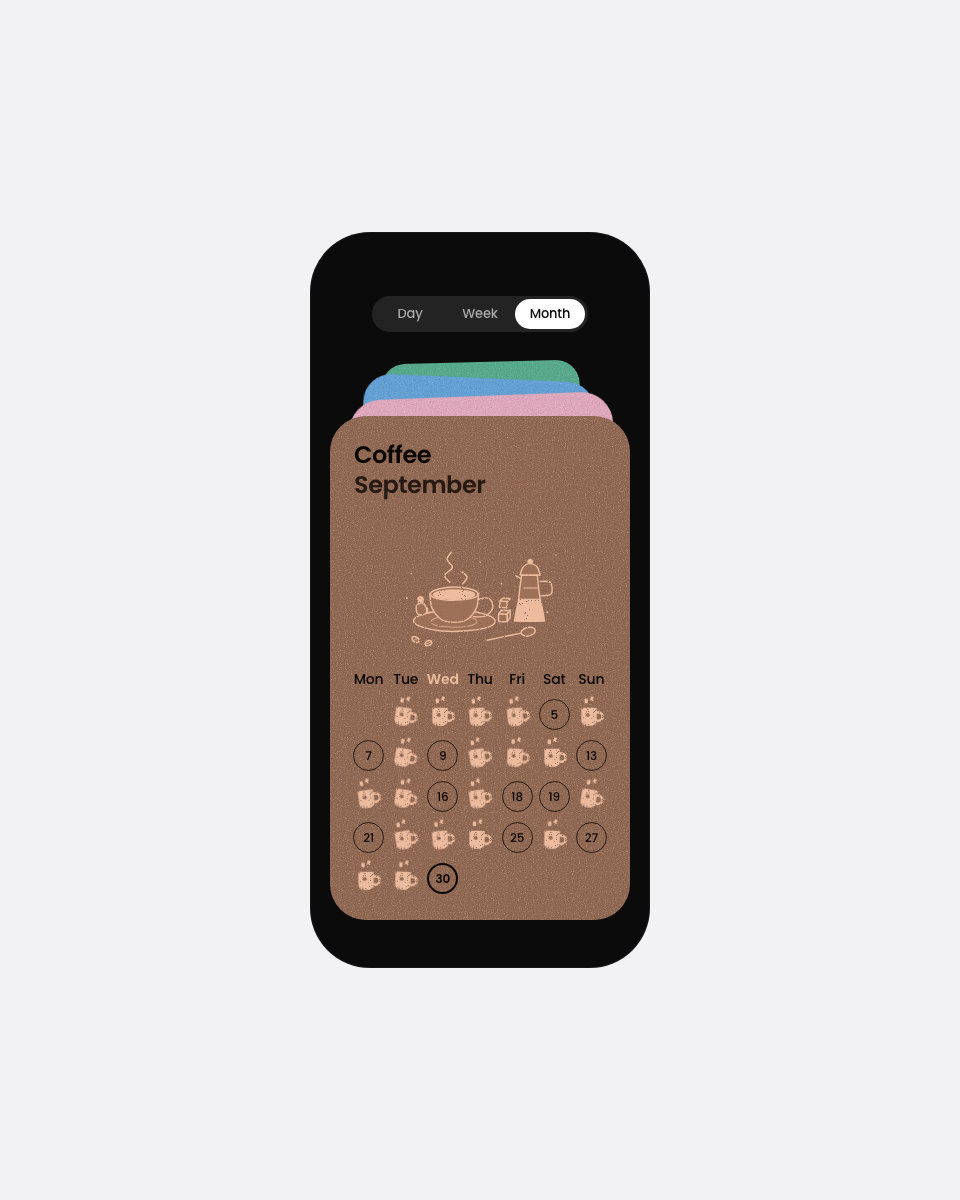
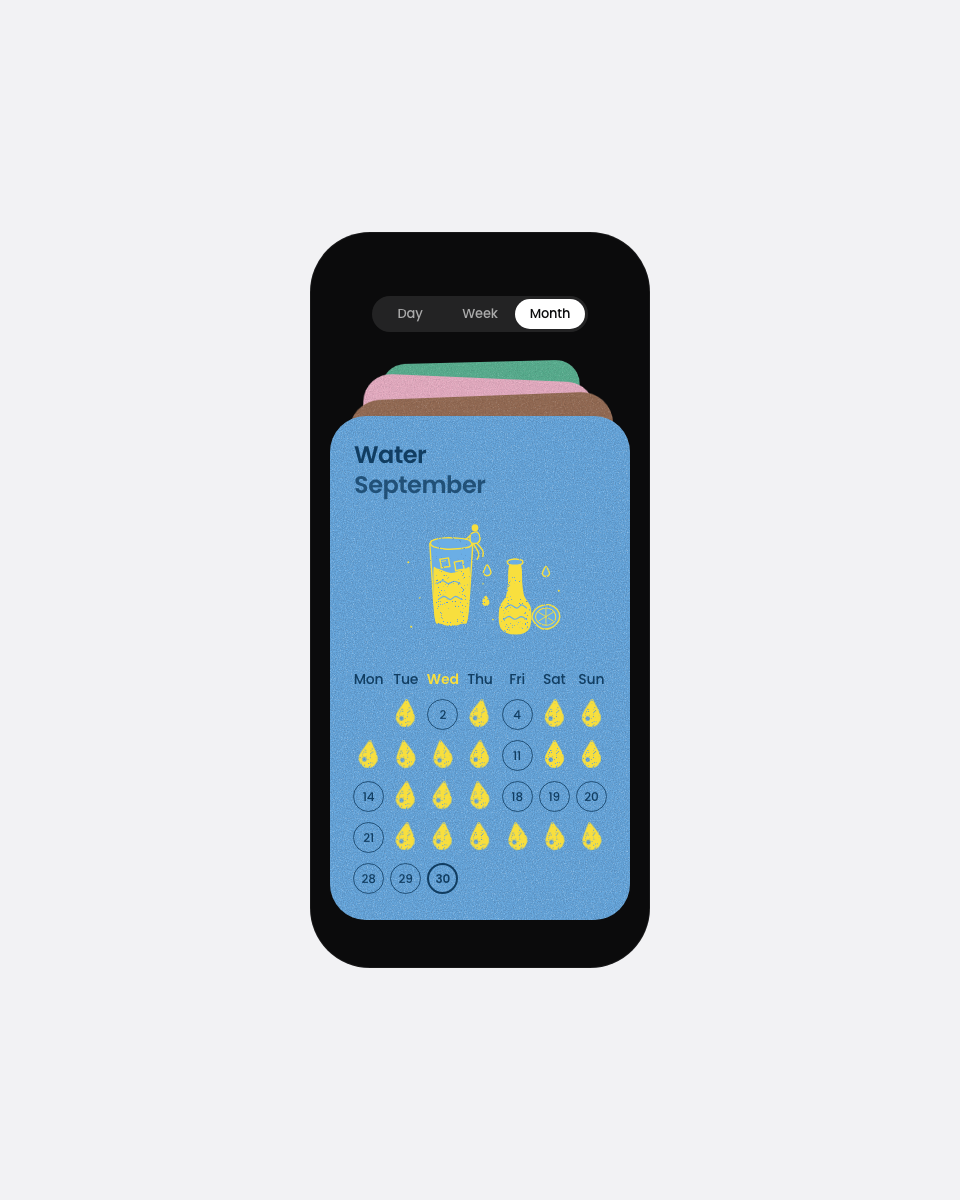
fix: Stamp Tracker — back card rises from behind the pile; Water leads the deck

Changed region(s): [[0.3438, 0.3083, 0.6562, 0.7708]]

diff --git a/components/data-visualization/stamp-tracker/stamp-tracker.tsx b/components/data-visualization/stamp-tracker/stamp-tracker.tsx
@@ -63,9 +63,9 @@ type Habit = {
 };
 
 const HABITS: readonly Habit[] = [
+  { id: "water", name: "Water", card: "#6BAEE5", text: "#113D61", stamp: "#F8DF3E", seed: 0.66 },
   { id: "coffee", name: "Coffee", card: "#9C7158", text: "#0C0603", stamp: "#EDBC9F", seed: 0.68 },
   { id: "move", name: "Move", card: "#F2B6CB", text: "#285949", stamp: "#4FAE8F", seed: 0.62 },
-  { id: "water", name: "Water", card: "#6BAEE5", text: "#113D61", stamp: "#F8DF3E", seed: 0.66 },
   { id: "read", name: "Read", card: "#5DB896", text: "#353178", stamp: "#6560BE", seed: 0.64 },
 ];
 
@@ -594,6 +594,9 @@ function pose(depth: number) {
  * the stack, and `e` is 1 while a card is still below the screen waiting to rise in.
  * The outer layer (o…) holds a card's place in the stack, the inner one (i…) is the card being moved by the hand.
  */
+/** How far below its back slot a card sits when it's tucked out of sight behind the pile. */
+const TUCK_DROP = 84;
+
 function cardState(p0: number, d: number, t: number, e: number) {
   const p = clamp(p0, -1, 1);
   let oy = 0;
@@ -620,20 +623,20 @@ function cardState(p0: number, d: number, t: number, e: number) {
   } else {
     const q = -p;
     if (d === 3) {
-      if (q < 0.1) {
-        // The back card first lets go of its place in the stack (fading, so there's no jump)…
+      if (q < 0.15) {
+        // The back card first slips down out of sight behind the pile, the way it came in…
         const b = pose(3);
-        oy = b.y;
+        oy = b.y + TUCK_DROP * (q / 0.15);
         os = b.scale;
         or = b.rotate;
-        opacity = 1 - q / 0.1;
+        z = 0;
       } else {
         // …then comes in over the top from the left edge.
-        const k = (q - 0.1) / 0.9;
+        const k = (q - 0.15) / 0.85;
         ix = -(1 - k) * FLY;
         ir = -6 * (1 - k);
         z = 8;
-        content = clamp((q - 0.1) / 0.25, 0, 1);
+        content = clamp((q - 0.15) / 0.25, 0, 1);
       }
     } else {
       const b = pose(d + q);
@@ -643,19 +646,20 @@ function cardState(p0: number, d: number, t: number, e: number) {
       content = d === 0 ? 1 - q : 0;
     }
   }
-  // The card that has just left reappears at the back of the pile: already in its slot, invisible, then it fades in there
-  // (a touch smaller and lower, settling up into place) so only its top band shows. It's the lowest card throughout.
+  // The card that has just left goes to the back of the pile by sliding up from BEHIND it, like a card tucked into the
+  // back of a deck: it starts low enough to be hidden by the cards in front, fully opaque, and rises into its slot, so
+  // its top band is uncovered rather than faded in. It's the lowest card throughout.
   // (A card being brought back round to the front has no use for it.)
-  const arriving = p < 0 && d === 3 && -p >= 0.1;
+  const arriving = p < 0 && d === 3 && -p >= 0.15;
   if (t > 0.002 && !arriving) {
     const b = pose(3);
-    oy = b.y + 6 * t;
-    os = b.scale * (1 - 0.06 * t);
+    oy = b.y + TUCK_DROP * t;
+    os = b.scale;
     or = b.rotate;
     ix = 0;
     ir = 0;
     content = 0;
-    opacity = 1 - t;
+    opacity = 1;
     z = 0;
   }
   return { oy: oy + e * SURFACE_H, os, or, ix, ir, z, opacity, content };
@@ -668,7 +672,7 @@ type DeckCardProps = {
   view: View;
   /** The swipe's progress (-1…1), shared by every card. */
   progress: MotionValue<number>;
-  /** 1 while this card is gliding back in behind the stack after flying off. */
+  /** 1 while this card is tucked out of sight behind the pile after flying off; it rises to 0 into its back slot. */
   tuck: MotionValue<number>;
   /** 1 while this card is still below the screen, 0 once it has risen into place. */
   enter: MotionValue<number>;
@@ -1122,7 +1126,7 @@ export function StampTracker({ today = DEFAULT_TODAY, loop = false, onChange, cl
     [setStamped],
   );
 
-  /** The card that has just left is now at the back: it waits there unseen for a moment, then fades in. */
+  /** The card that has just left is now at the back: it starts tucked out of sight behind the pile, then rises into its slot. */
   React.useLayoutEffect(() => {
     const pending = pendingRef.current;
     if (!pending) return;
@@ -1136,7 +1140,7 @@ export function StampTracker({ today = DEFAULT_TODAY, loop = false, onChange, cl
       const t = tucks[pending.leaver];
       tuckAnims.current[pending.leaver]?.stop();
       t.set(1);
-      tuckAnims.current[pending.leaver] = animate(t, 0, { duration: 0.26, delay: 0.08, ease: [0.25, 0.1, 0.25, 1], onComplete: () => t.set(0) });
+      tuckAnims.current[pending.leaver] = animate(t, 0, { type: "spring", bounce: 0, visualDuration: 0.42, delay: 0.04, onComplete: () => t.set(0) });
     }
   }, [front, progress, tucks]);
 

diff --git a/src/lib/component-registry.ts b/src/lib/component-registry.ts
@@ -345,7 +345,7 @@ export const componentRegistry = {
     index: "018",
     title: "Stamp Tracker",
     description:
-      "Four habits as a deck of tall blocks of risograph colour on a bare black phone screen — cocoa, pink, sky and mint, each with its own pattern ink — fanned like a loose stack. Swipe through coffee, move, water and read with a silky, interruptible gesture that follows a finger or a two-finger trackpad swipe, flip between Day, Week and Month, and tap a day to press a rubber stamp onto it. The middle of each card holds a loose hand-inked line drawing in the style of a Japanese tabletop illustration, with a tiny person getting up to something among the objects",
+      "Four habits as a deck of tall blocks of risograph colour on a bare black phone screen — sky, cocoa, pink and mint, each with its own pattern ink — fanned like a loose stack. Swipe through water, coffee, move and read with a silky, interruptible gesture that follows a finger or a two-finger trackpad swipe, flip between Day, Week and Month, and tap a day to press a rubber stamp onto it. The middle of each card holds a loose hand-inked line drawing in the style of a Japanese tabletop illustration, with a tiny person getting up to something among the objects",
     category: "Data Visualization",
     status: "NEW",
     statusClassName: "bg-[var(--jitter-orange)]/12 text-[var(--jitter-orange)]",

diff --git a/components/data-visualization/stamp-tracker/README.md b/components/data-visualization/stamp-tracker/README.md
@@ -1,6 +1,6 @@
 # Stamp Tracker
 
-Four habits as a deck of tall blocks of risograph colour on a bare black phone screen — cocoa, pink, sky and mint, each with its own pattern ink — fanned like a loose stack. Swipe through coffee, move, water and read with a silky, interruptible gesture that follows a finger or a two-finger trackpad swipe, flip between Day, Week and Month, and tap a day to press a rubber stamp onto it. The middle of each card holds a loose hand-inked line drawing in the style of a Japanese tabletop illustration, with a tiny person getting up to something among the objects
+Four habits as a deck of tall blocks of risograph colour on a bare black phone screen — sky, cocoa, pink and mint, each with its own pattern ink — fanned like a loose stack. Swipe through water, coffee, move and read with a silky, interruptible gesture that follows a finger or a two-finger trackpad swipe, flip between Day, Week and Month, and tap a day to press a rubber stamp onto it. The middle of each card holds a loose hand-inked line drawing in the style of a Japanese tabletop illustration, with a tiny person getting up to something among the objects
 
 ![Stamp Tracker preview](https://raw.githubusercontent.com/michellesijiama/atomicmotion-ui/main/public/previews/stamp-tracker.png)
 
